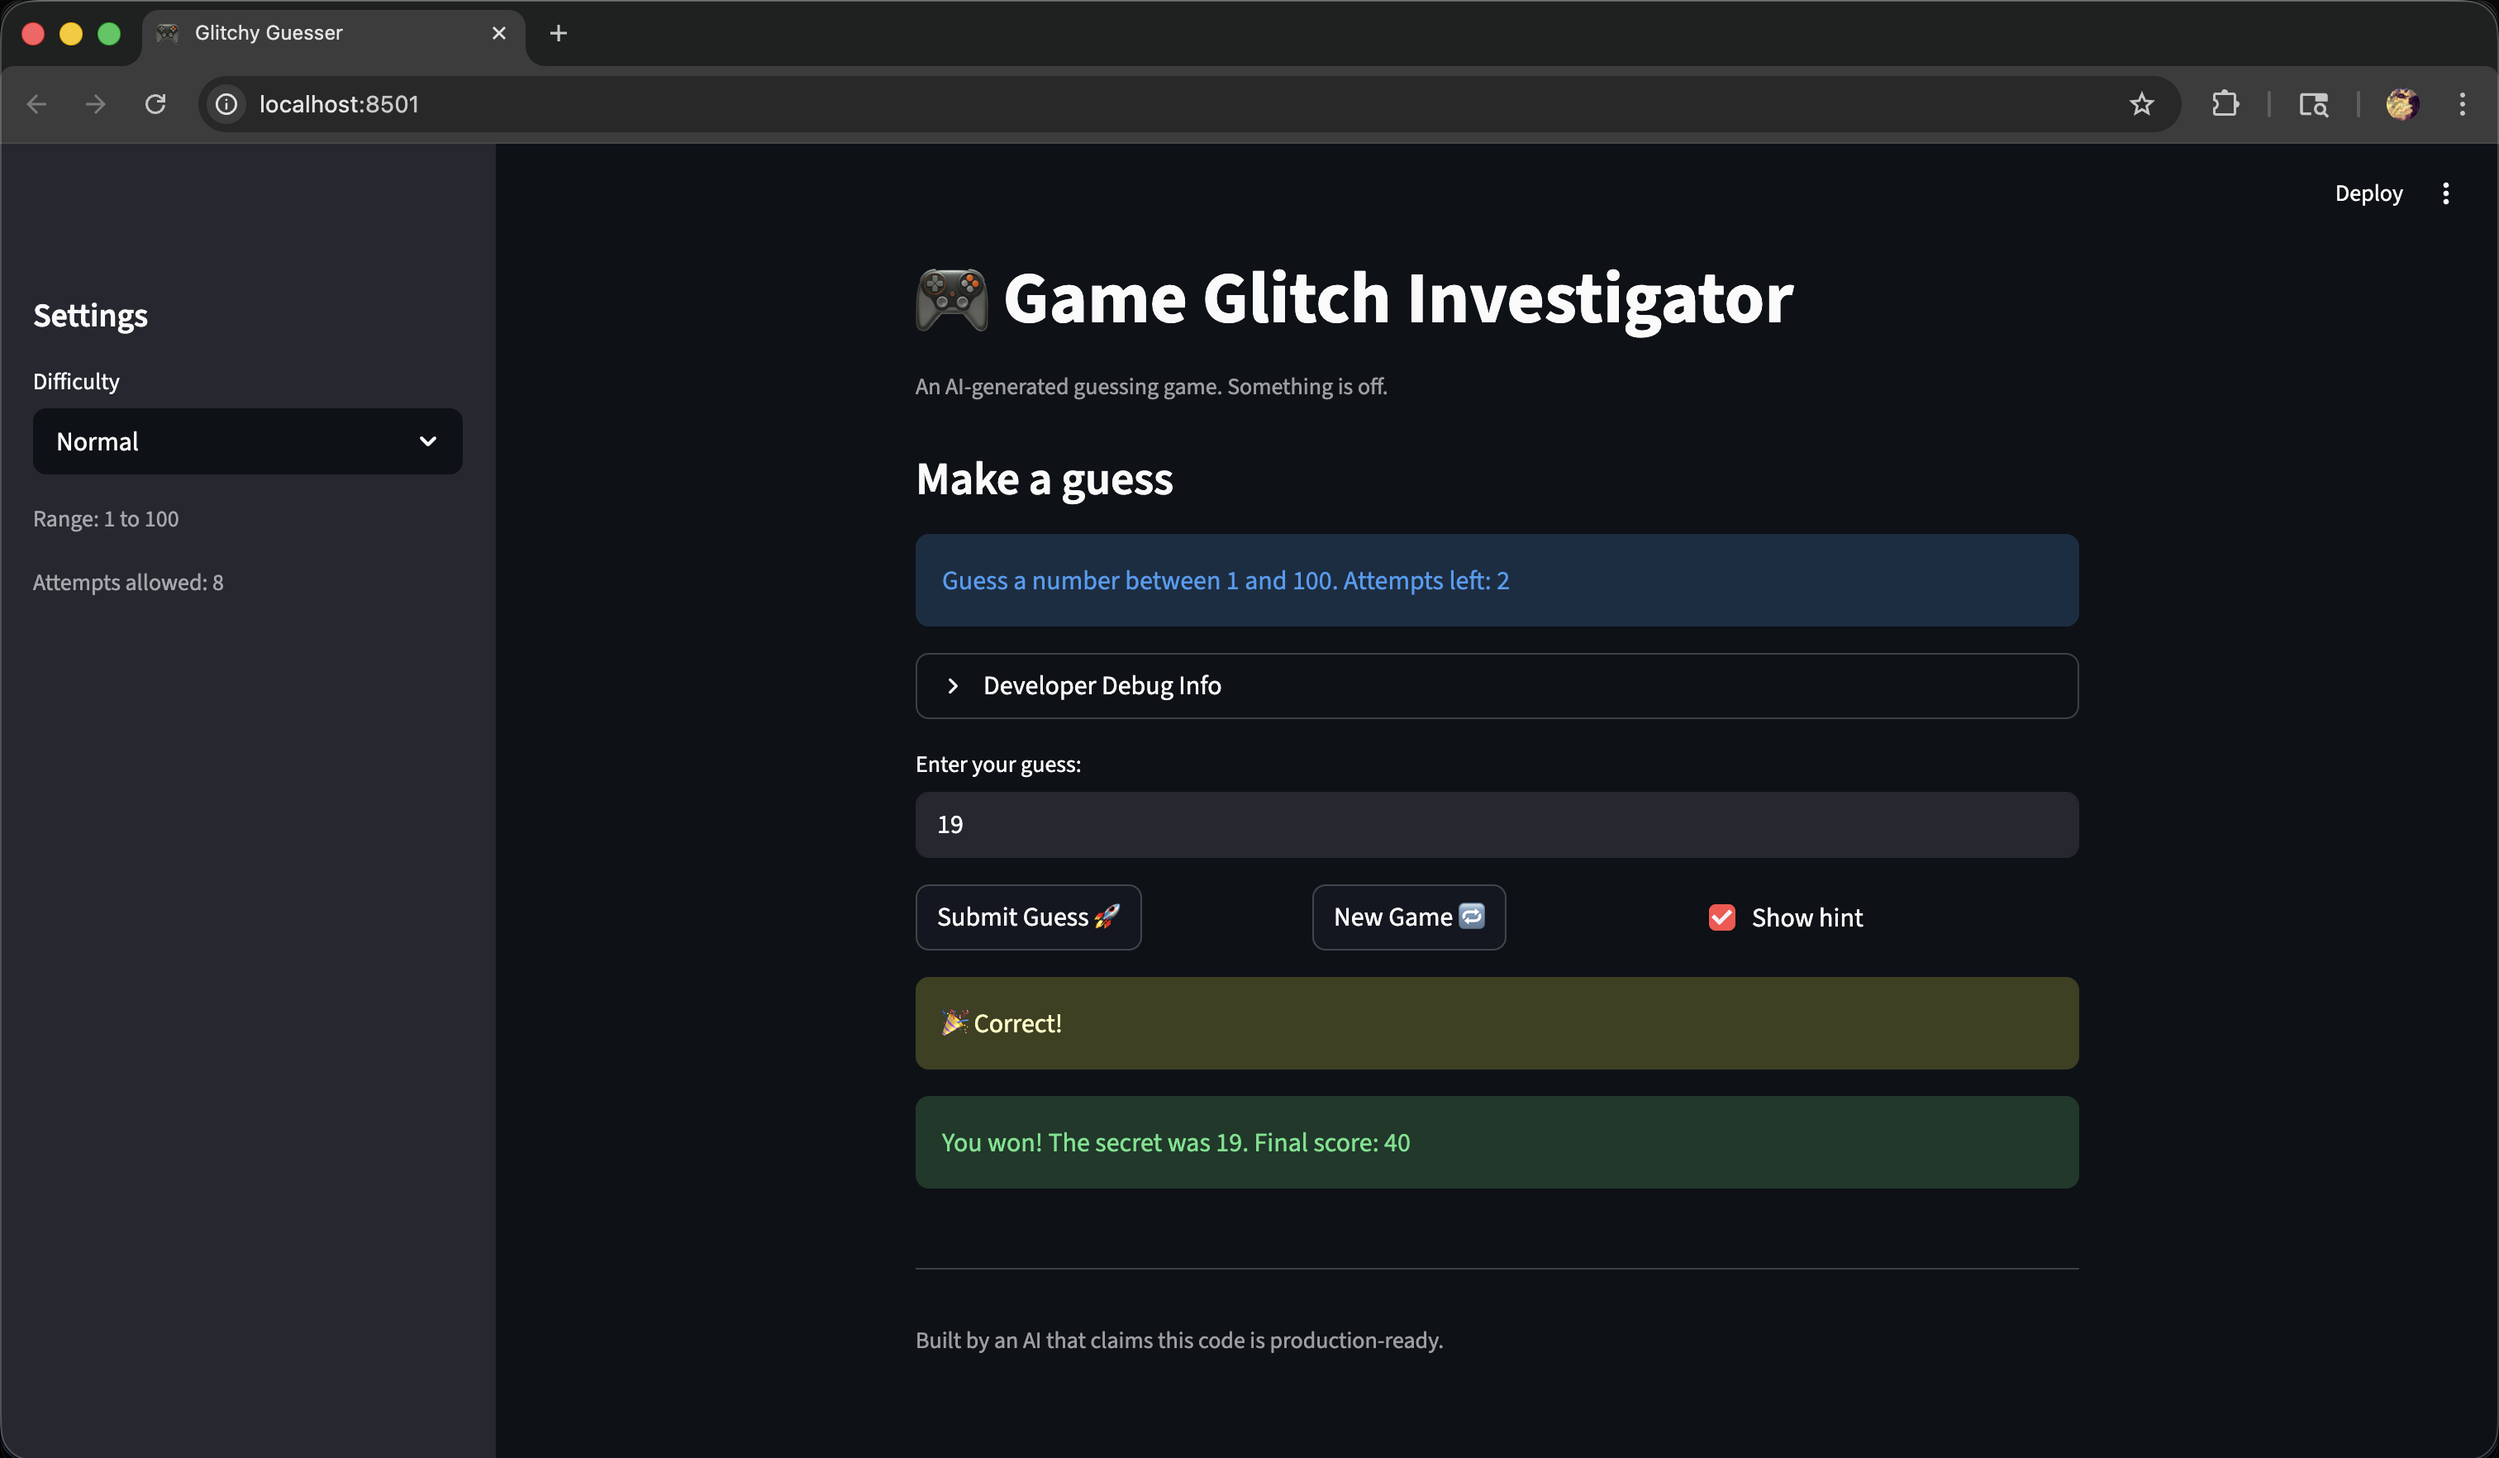
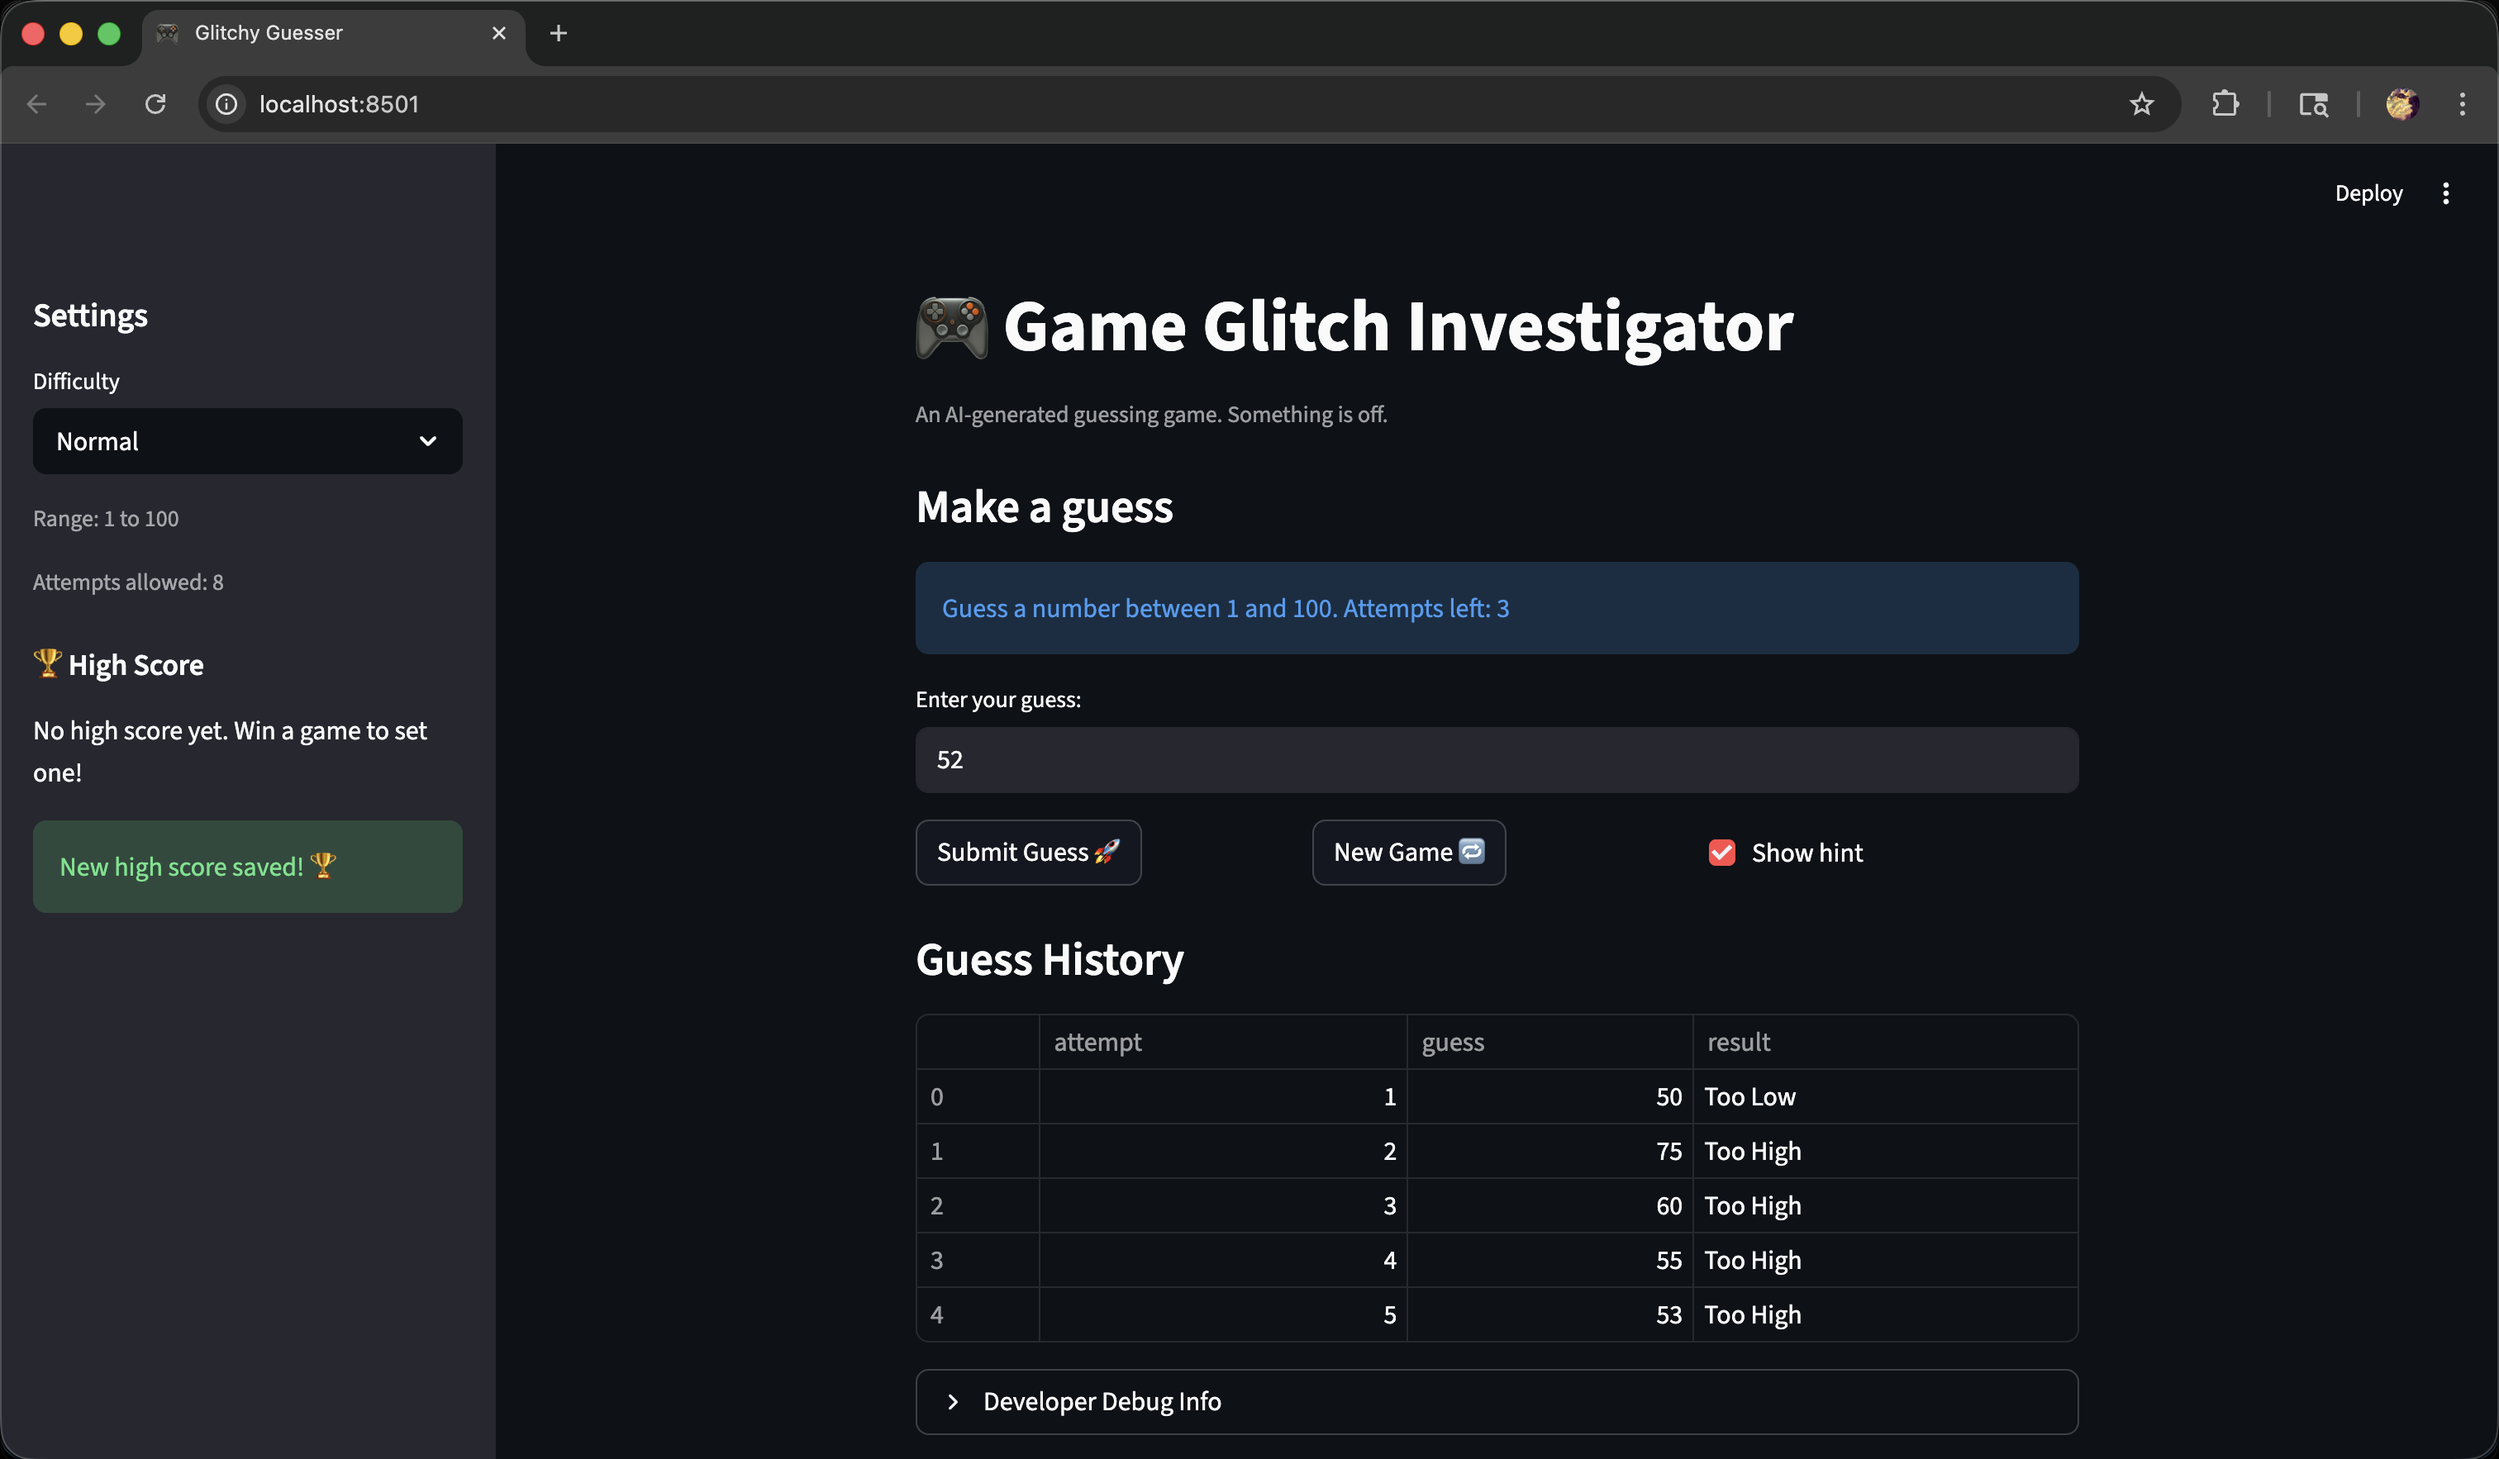
feat: add persistent high score and visible guess history

diff --git a/app.py b/app.py
@@ -10,6 +10,9 @@ from logic_utils import (
     update_score,
     validate_guess_in_range,
 )
+from storage_utils import update_high_score, load_high_score
+
+HIGH_SCORE_PATH = "high_score.json"
 
 st.set_page_config(page_title="Glitchy Guesser", page_icon="🎮")
 
@@ -24,11 +27,7 @@ difficulty = st.sidebar.selectbox(
     index=1,
 )
 
-attempt_limit_map = {
-    "Easy": 6,
-    "Normal": 8,
-    "Hard": 5,
-}
+attempt_limit_map = {"Easy": 6, "Normal": 8, "Hard": 5}
 attempt_limit = attempt_limit_map[difficulty]
 
 low, high = get_range_for_difficulty(difficulty)
@@ -44,30 +43,38 @@ def reset_game():
     st.session_state.score = 0
     st.session_state.status = "playing"
     st.session_state.history = []
-    # FIX: Clear the current input so the UI doesn't re-submit stale text.
+    st.session_state.guess_log = []  # Feature: visible guess history table
+    # Important: clear the input using a callback button (on_click) to avoid StreamlitAPIException
     st.session_state[f"guess_input_{difficulty}"] = ""
 
+
+# High score: load once per session
+if "high_score" not in st.session_state:
+    st.session_state.high_score = load_high_score(HIGH_SCORE_PATH)
 
 # Initialize state on first load (or when difficulty changes).
 if "difficulty" not in st.session_state:
     st.session_state.difficulty = difficulty
     reset_game()
 elif st.session_state.difficulty != difficulty:
-    # FIXME: Logic breaks here in the starter code because difficulty changes without resetting state.
+    # FIXME: Starter code broke here because difficulty changed without resetting state.
     st.session_state.difficulty = difficulty
     reset_game()
+
+# Sidebar: High score display
+st.sidebar.subheader("🏆 High Score")
+hs = st.session_state.high_score
+if hs:
+    st.sidebar.success(
+        f"{hs.get('best_score')} pts • {hs.get('best_attempts')} attempts • {hs.get('difficulty')}"
+    )
+else:
+    st.sidebar.write("No high score yet. Win a game to set one!")
 
 st.subheader("Make a guess")
 
 attempts_left = max(attempt_limit - st.session_state.attempts, 0)
 st.info(f"Guess a number between {low} and {high}. Attempts left: {attempts_left}")
-
-with st.expander("Developer Debug Info"):
-    st.write("Secret:", st.session_state.secret)
-    st.write("Attempts:", st.session_state.attempts)
-    st.write("Score:", st.session_state.score)
-    st.write("Difficulty:", difficulty)
-    st.write("History:", st.session_state.history)
 
 raw_guess = st.text_input("Enter your guess:", key=f"guess_input_{difficulty}")
 
@@ -75,9 +82,22 @@ col1, col2, col3 = st.columns(3)
 with col1:
     submit = st.button("Submit Guess 🚀")
 with col2:
+    # FIX: callback reset avoids session_state widget-key mutation errors
     st.button("New Game 🔁", on_click=reset_game)
 with col3:
     show_hint = st.checkbox("Show hint", value=True)
+
+# Visible feature: Guess history table (not just in debug)
+if st.session_state.get("guess_log"):
+    st.subheader("Guess History")
+    st.table(st.session_state.guess_log)
+
+with st.expander("Developer Debug Info"):
+    st.write("Secret:", st.session_state.secret)
+    st.write("Attempts:", st.session_state.attempts)
+    st.write("Score:", st.session_state.score)
+    st.write("Difficulty:", difficulty)
+    st.write("Raw History:", st.session_state.history)
 
 if st.session_state.status != "playing":
     if st.session_state.status == "won":
@@ -95,16 +115,18 @@ if submit:
         if not in_range:
             st.error(range_err)
         else:
-            # FIX: Only count an attempt after a valid in-range guess.
             st.session_state.attempts += 1
             st.session_state.history.append(guess_int)
 
-            # FIX: Keep secret numeric; the starter code sometimes converted it to str, breaking comparisons.
             outcome = check_guess(guess_int, st.session_state.secret)
             message = hint_message(outcome)
 
+            # Log for the new UI table
+            st.session_state.guess_log.append(
+                {"attempt": st.session_state.attempts, "guess": guess_int, "result": outcome}
+            )
+
             if show_hint:
-                # FIX: "Too High" should tell the player to go LOWER, and vice versa.
                 st.warning(message)
 
             st.session_state.score = update_score(
@@ -116,6 +138,18 @@ if submit:
             if outcome == "Win":
                 st.balloons()
                 st.session_state.status = "won"
+
+                # Feature: persistent high score
+                record, is_new = update_high_score(
+                    new_score=st.session_state.score,
+                    new_attempts=st.session_state.attempts,
+                    difficulty=difficulty,
+                    path=HIGH_SCORE_PATH,
+                )
+                st.session_state.high_score = record
+                if is_new:
+                    st.sidebar.success("New high score saved! 🏆")
+
                 st.success(
                     f"You won! The secret was {st.session_state.secret}. "
                     f"Final score: {st.session_state.score}"

diff --git a/storage_utils.py b/storage_utils.py
@@ -1,0 +1,64 @@
+from __future__ import annotations
+
+import json
+from pathlib import Path
+from typing import Any, Dict, Optional, Tuple
+
+
+def load_high_score(path: str = "high_score.json") -> Optional[Dict[str, Any]]:
+    """Load high score record from JSON. Returns None if missing/invalid."""
+    p = Path(path)
+    if not p.exists():
+        return None
+    try:
+        data = json.loads(p.read_text(encoding="utf-8"))
+        if not isinstance(data, dict):
+            return None
+        # Basic shape validation
+        if "best_score" not in data:
+            return None
+        return data
+    except Exception:
+        return None
+
+
+def save_high_score(record: Dict[str, Any], path: str = "high_score.json") -> None:
+    """Save high score record to JSON."""
+    p = Path(path)
+    p.write_text(json.dumps(record, indent=2), encoding="utf-8")
+
+
+def update_high_score(
+    new_score: int,
+    new_attempts: int,
+    difficulty: str,
+    path: str = "high_score.json",
+) -> Tuple[Dict[str, Any], bool]:
+    """
+    Update high score if new_score is better.
+
+    Tie-breaker: fewer attempts wins if scores are equal.
+    Returns: (record, is_new_high_score)
+    """
+    current = load_high_score(path) or {}
+
+    cur_score = int(current.get("best_score", -1))
+    cur_attempts = int(current.get("best_attempts", 10**9))
+
+    is_better = (new_score > cur_score) or (new_score == cur_score and new_attempts < cur_attempts)
+    if not is_better:
+        # Keep existing, but ensure consistent structure
+        record = {
+            "best_score": cur_score,
+            "best_attempts": cur_attempts,
+            "difficulty": current.get("difficulty", "Unknown"),
+        }
+        return record, False
+
+    record = {
+        "best_score": int(new_score),
+        "best_attempts": int(new_attempts),
+        "difficulty": str(difficulty),
+    }
+    save_high_score(record, path)
+    return record, True
